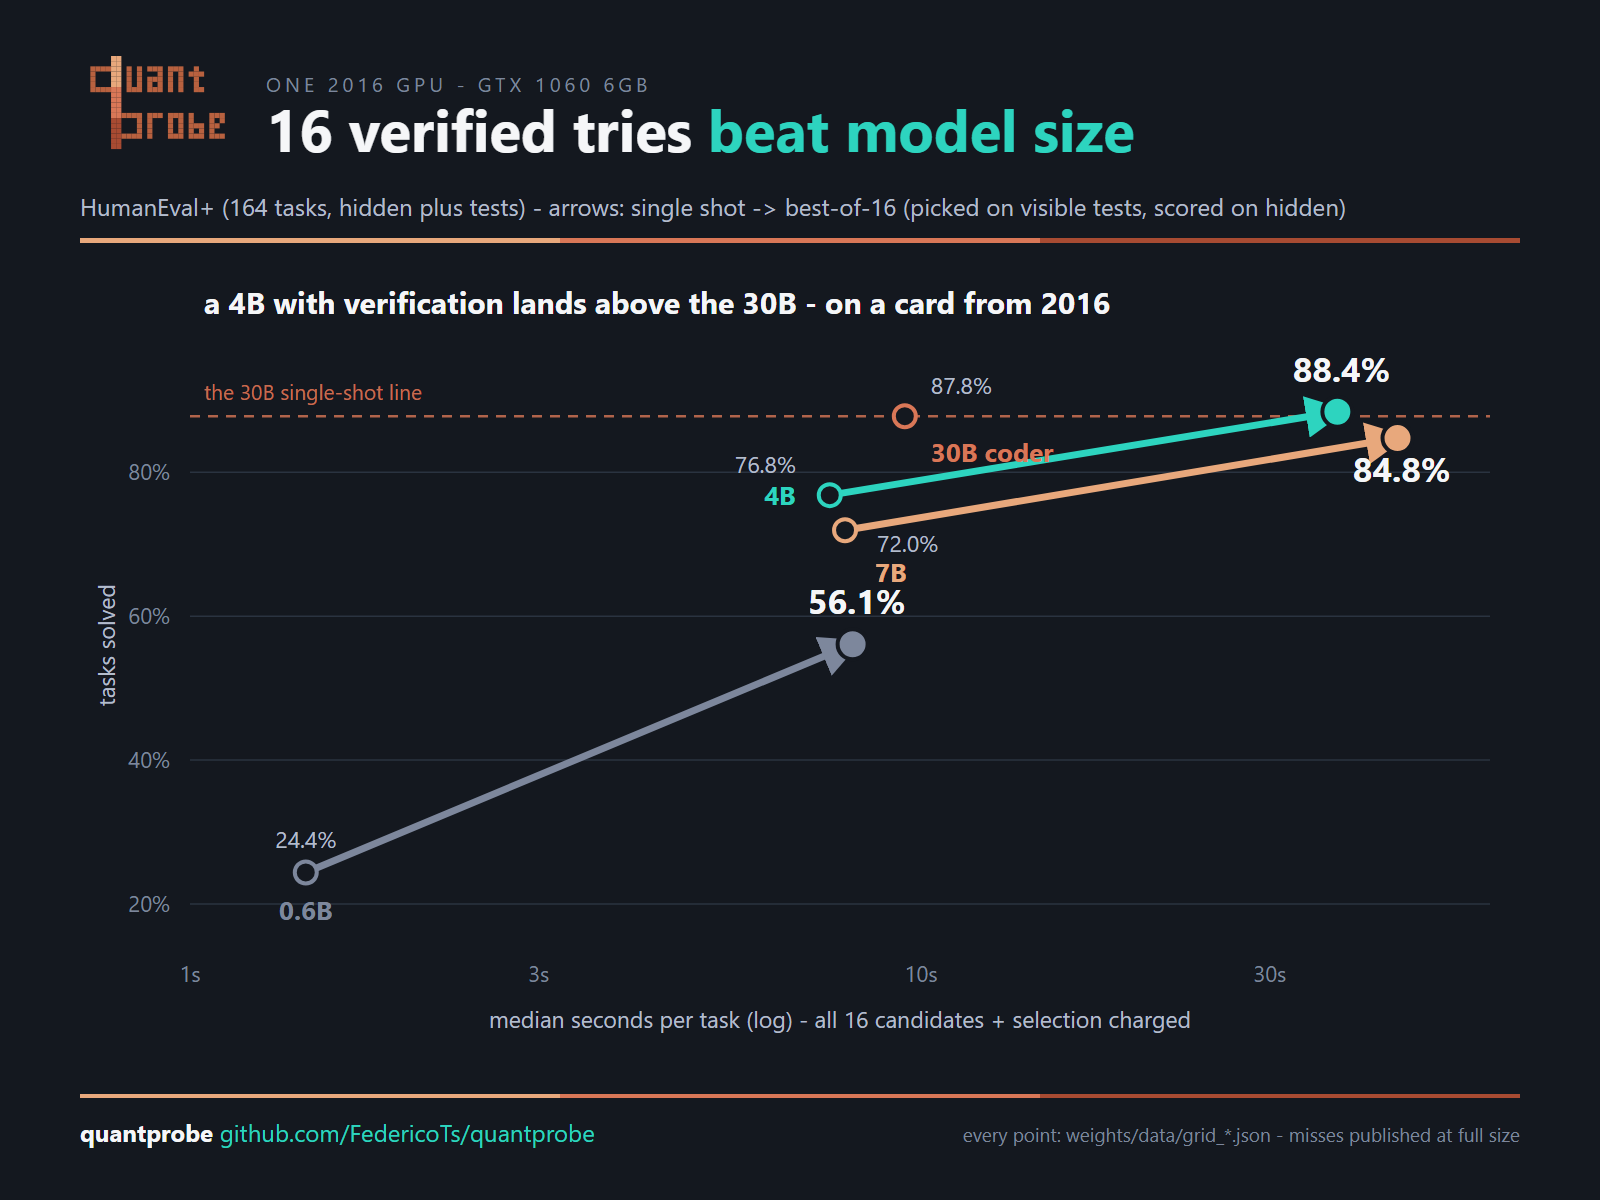
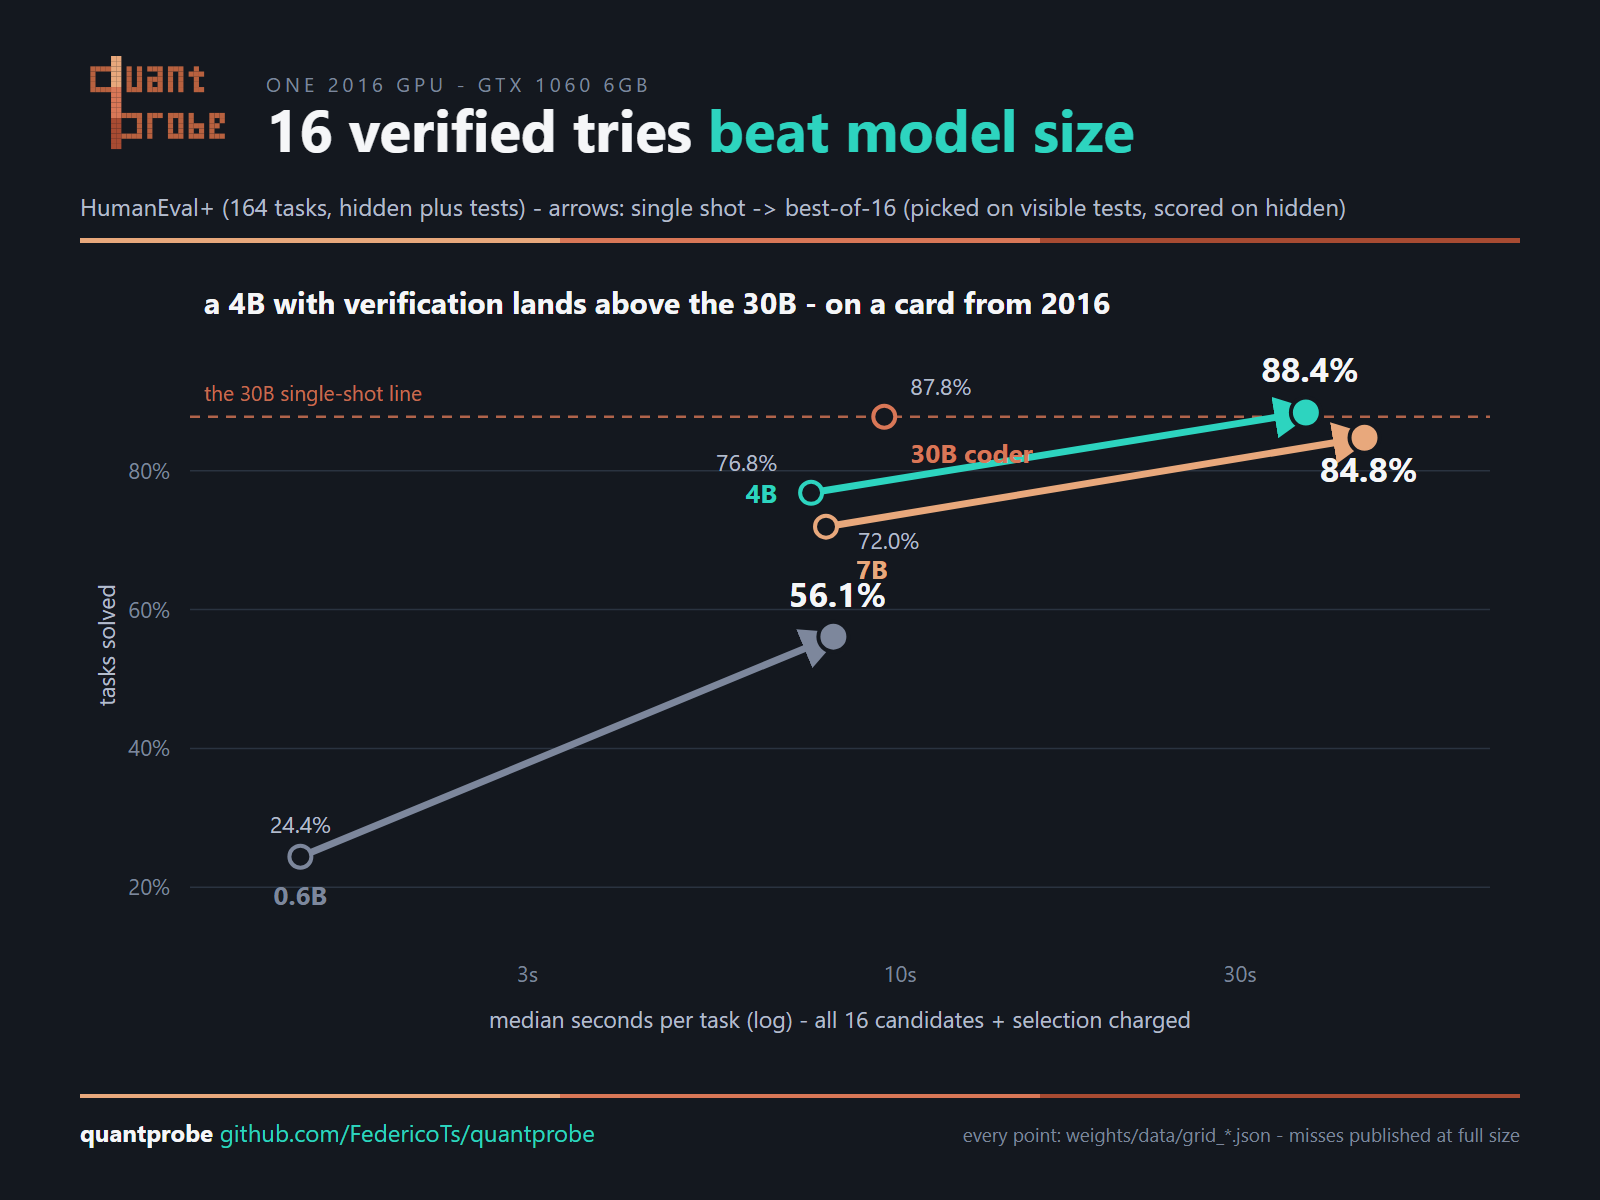
Vector axes now derive from the data (the 0.4s point launched its arrow from off-canvas), and the media portfolio is planned from the committed inventory
A hard-coded xmin=1s put MBPP's fastest cell outside the frame - axes
now compute from the plotted points with padding, gridlines follow, and
both benches re-rendered and REVIEWED. media/PLAN.md: nine data-ready
charts mined from what this project already measured - the stuck-boost
thermal story, the 2.6x format-speed spread, the prediction-vs-reality
trust scatter, the 744B-to-0.5B size-speed map, the speculation regime
map, the KV depth tax, the 9%-contamination breakdown - plus the two
campaign-fed centerpieces. Build order set by relatability per hour.

diff --git a/weights/make_verification_vector.py b/weights/make_verification_vector.py
@@ -34,17 +34,27 @@ def main(bench, bench_label, takeaway):
                       f'16 verified tries <tspan fill="{TEAL}">beat model size</tspan>',
                       f"{bench_label} - arrows: single shot -> best-of-16 (picked on visible tests, scored on hidden)")]
     px0, px1, py0, py1 = 190, W - 110, H - 260, 350
-    xmin, xmax = 1, 60
-    ymin, ymax = 15, 97
+    # axis bounds FROM the data, padded - a hard-coded xmin put MBPP's 0.4s point off-canvas
+    # and its arrow launched from outside the frame (caught on render review, 2026-08-06)
+    walls, rates = [], []
+    for key, _, _ in MODELS:
+        for mode in ("single", "lanes"):
+            c = cell(bench, key, mode)
+            if c:
+                walls.append(c[0]); rates.append(c[1])
+    xmin, xmax = min(walls) * 0.7, max(walls) * 1.5
+    ymin, ymax = max(0, min(rates) - 12), min(100, max(rates) + 9)
     def X(w):
         return px0 + (px1 - px0) * (math.log10(w / xmin)) / math.log10(xmax / xmin)
     def Y(r):
         return py0 - (py0 - py1) * (r - ymin) / (ymax - ymin)
-    for gy in range(20, 100, 20):
+    gy0 = int(math.ceil(ymin / 20.0)) * 20
+    for gy in range(gy0, int(ymax) + 1, 20):
         s.append(f'<line x1="{px0}" y1="{Y(gy)}" x2="{px1}" y2="{Y(gy)}" stroke="{GRID}" stroke-width="1.5"/>'
                  f'<text x="{px0-20}" y="{Y(gy)+8}" text-anchor="end" fill="{MUT}" font-size="22">{gy}%</text>')
-    for gx in (1, 3, 10, 30):
-        s.append(f'<text x="{X(gx)}" y="{py0+42}" text-anchor="middle" fill="{MUT}" font-size="22">{gx}s</text>')
+    for gx in (0.3, 1, 3, 10, 30):
+        if xmin <= gx <= xmax:
+            s.append(f'<text x="{X(gx)}" y="{py0+42}" text-anchor="middle" fill="{MUT}" font-size="22">{gx:g}s</text>')
     s.append(f'<text x="{(px0+px1)/2}" y="{py0+88}" text-anchor="middle" fill="{SUB}" font-size="23">median seconds per task (log) - all 16 candidates + selection charged</text>')
     s.append(f'<text x="115" y="{(py0+py1)/2}" fill="{SUB}" font-size="23" transform="rotate(-90 115 {(py0+py1)/2})" text-anchor="middle">tasks solved</text>')
     s.append('<defs><marker id="arr" viewBox="0 0 12 12" refX="9" refY="6" markerWidth="6" markerHeight="6" orient="auto-start-reverse"><path d="M 0 0 L 12 6 L 0 12 z" fill="context-stroke"/></marker></defs>')

diff --git a/media/PLAN.md b/media/PLAN.md
@@ -1,0 +1,51 @@
+# The media portfolio — every chart, its hook, and its committed data
+
+Rule of the house applies to content: **a chart is a claim** — every asset renders from
+committed measurements (cite-or-refuse), misses stay on the chart, and nothing ships without
+the render-review loop (headless render -> look -> fix -> deliver).
+
+## Data-ready now (committed measurements, CPU-only to build)
+
+1. **The stuck boost state** — *"your GPU silently lost 18% and only a reboot fixes it."*
+   Preregs #60/#61: SM clocks locked ~18% low at cool temps after hours of churn; plus the
+   ClockSampler sustained-vs-idle data and the gpu-state lines logged around every grid row
+   (139 MHz idle vs 1885 MHz sustained in one night's log). Format: before/after bars + a
+   clock strip across the night. The most relatable finding we own - every gamer has felt it.
+2. **Same gigabytes, different speed** — the format ladder. FORMAT_EBW measured: Q4_0 119.1
+   GB/s vs Q2_K 65.4 vs IQ2_XXS 46.0 - a 2.6x speed spread at comparable size - plus the
+   IQ4_NL twist (117: "IQ by name, Q4-class by kernel"). Preregs #31/#52/#53/#70/#77.
+3. **Prediction vs reality** — the trust chart. Scatter of predicted vs measured: the
+   14-model ladder (8.4% median), the externals (E-08 Blackwell +2..7.6%, E-13 AMD +0.1%,
+   Kimi retrodiction 0.3%, airllm's 30x spread bracketed), floor band shaded, the misses
+   (U-06 -67% disk arm) labeled at the same size as the hits. Nobody else can draw this.
+4. **The size-vs-speed map** — every measured model as a bubble: 0.5B to 744B on one machine,
+   x = file GB (log), y = tok/s (log), colored by memory tier. The strong-contrast asset:
+   "a 744B answered on 16 GB RAM - at 0.13 tok/s; the honest chart shows you both halves."
+   Sources: ladder logs + docs/MATRIX.md rows.
+5. **The speculation regime map** — the 2x3 grid (dense/MoE x all-VRAM/split x external
+   draft/MTP): +33.5%, +11%, 0.74x, +11.4%, and the K-cliff - preregs #67-#71. The "it
+   depends, and we mapped every cell" flex.
+6. **The KV depth tax** — decode vs context for 3 models (7B loses 66% by 16K; the q8-KV
+   +37% rescue at depth; the 3.04x -nkvo penalty). Mostly committed; completed by the queued
+   8K-32K sweep. Protocol mixes stated per-point.
+7. **9% of a clean corpus collides with the benches** — the Phase B screen ledger as a
+   breakdown bar (4,551 exclusions by reason, sum-of-first-n-naturals as the poster child).
+   Every "trained on open data" claim in the industry is exposed to this; we have receipts.
+8. **The batching inversion** (restyle to brand v2) — U-38's 23 -> 219 tok/s aggregate curve,
+   the MMVQ->MMQ kernel cliff at width 9, and U-39's MoE 2.0x cap: "which model to serve
+   DEPENDS on how many users you have."
+9. **The verification vector** (shipped) — extends with k=32 and collapse-strategy arms (#78).
+
+## Campaign-fed (staked, GPU queue)
+
+10. **Ours vs naive all-layers quantization** — the quality-ladder Pareto (KLD vs size, both
+    layouts, tok/s stamped per point). THE centerpiece comparison; prereg
+    2026-08-05-quality-ladder-chart.md, gates staked.
+11. **Grid v2 rows** — GSM8K/IFEval/GPQA/AIME columns landing on the capability table (#79).
+
+## Build order
+
+Stuck-boost (1) and format ladder (2) first - highest relatability per build-hour; then
+prediction-vs-reality (3) and the size-speed map (4) as the trust + contrast pair; the rest
+as their data or restyle slots open. One asset per post; every asset carries the receipt
+footer and lands here the day it renders clean.
